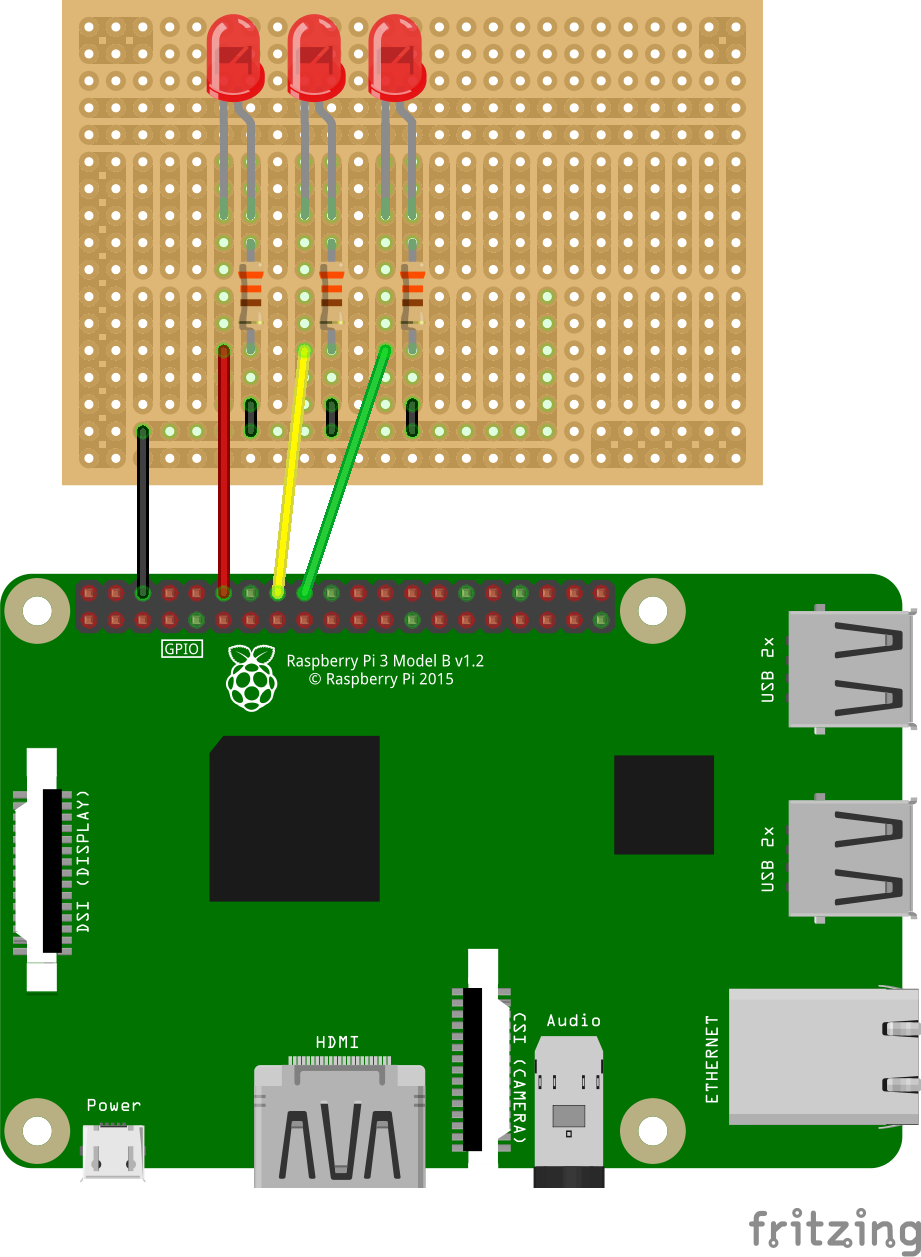
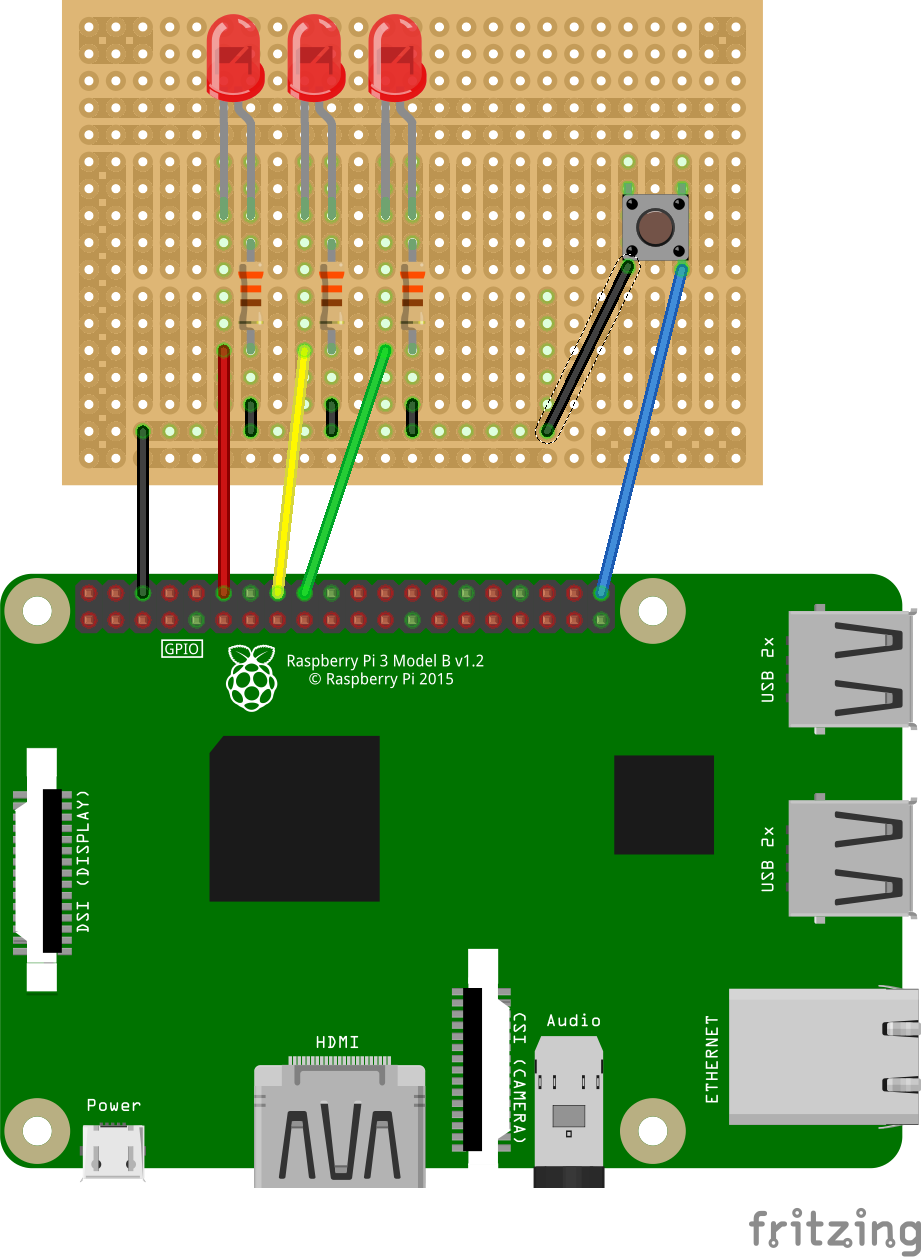
Updated documentation to reflect new features

Changed region(s): [[0.6384, 0.1241, 0.76, 0.2792], [0.6384, 0.2482, 0.7296, 0.4964], [0.5776, 0.2792, 0.6384, 0.3723]]

diff --git a/README.MD b/README.MD
@@ -2,8 +2,6 @@
 ## Introduction
 This script will allow you to monitor your buildstatus with a Raspberry PI. It is inspired by the Jenkins PI-light that appeared in the MagPI Projects Book Volume 3.
 
-It is designed to work with the same hardware setup as described there, although a simple variant for testing purposes is outlined under the Hardware section.
-
 This script is still very much a work in progress. New features will be added over time. If you feel a feature is missing, please submit a feature request.
 
 ## The status light
@@ -12,11 +10,17 @@ This script will simply light up a LED light depending on the status of your bui
 - Blinking yellow: The build is currently running
 - Solid red: The build has failed
 
+## The button
+The button can be used to trigger a new run of the build the system is currently monitoring. It will use the default branch and agent queue configured in VSTS. This will allow for easy queueing of new builds without requiring access to VSTS.
+
+This feature is completely optional. If you do not wish to use this, simply do not connect a button to the Raspberry PI.
+
 ## Hardware
 ### Required components
 - 1 red LED
 - 1 yellow / orange LED
 - 1 green LED
+- 1 momentary button
 - 3 330 ohm resistors
 - jumper cables (male-to-male and male-to-female if working with a breadboard)
 - A breadboard, proto-HAT or similar
@@ -38,7 +42,7 @@ This script will simply light up a LED light depending on the status of your bui
     - vstspat: Your Personal Access Token that can be used to query VSTS.
     - vstsprojectname: The project name inside VSTS
     - vstsbuilddefinition: The id of the build definition you want to monitor
-    - gpios: the pins to which the leds are connected. Only change these if your hardware setup differs from the description under Hardware
+    - gpios: the pins to which the leds and button are connected. Only change these if your hardware setup differs from the description under Hardware
 - Start the script
     ```sh
     python /path/to/script/buildstatus.py
